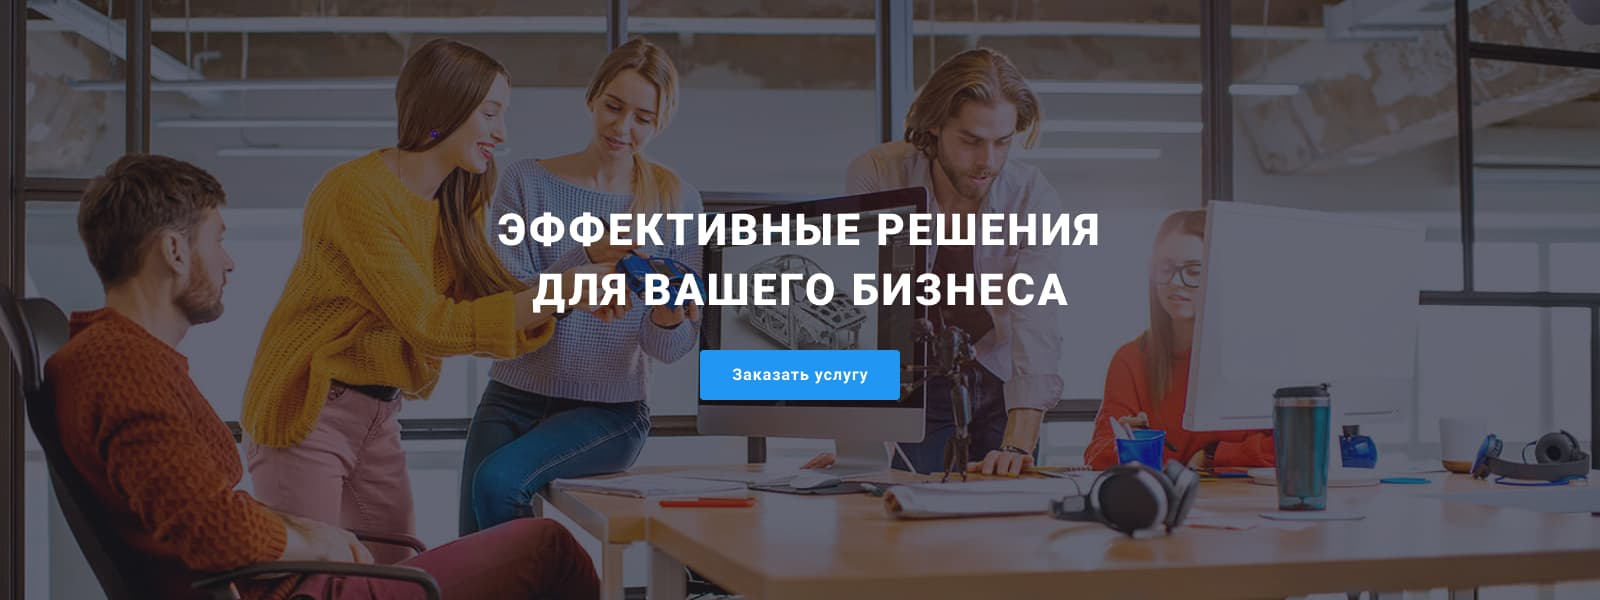
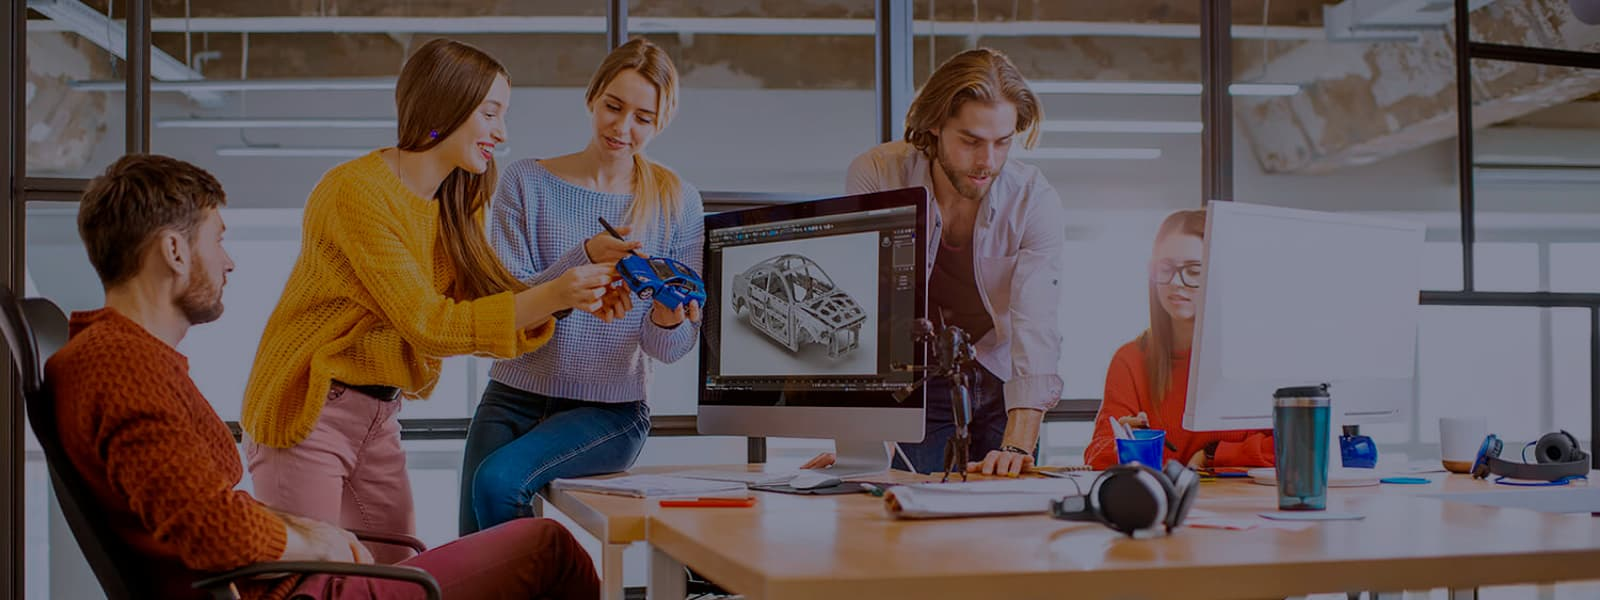
updt bck hero

diff --git a/css/styles.css b/css/styles.css
@@ -151,12 +151,18 @@ ul {
 
 /* Hero section:  part 1 - slogan and btn */
 .hero {
-  background-color: var(--accent-color-background);
   color: var(--white-color);
+  background-color: var(--accent-color-background);
+  background-image: linear-gradient(to left, rgba(47, 48, 58, 0.4), rgba(47, 48, 58, 0.4)),
+    url('../images/overlay.jpg');
+  background-repeat: no-repeat;
+  background-position: center;
+  background-size: cover;
   text-decoration: none;
   margin: 0;
   padding-top: 200px;
   padding-bottom: 280px;
+  border-radius: 4px;
 }
 .slogan {
   font-size: 44px;

diff --git a/index.html b/index.html
@@ -56,6 +56,9 @@
         <div class="container">
           <ul class="list hero-discr">
             <li class="hero-container">
+              <svg class="icons" width="270" height="170" >
+                <use href="./images/symbol-defs.svg#icon-attention"></use>
+              </svg>
               <h3 class="hero-items">Внимание к деталям</h3>
               <p class="hero-details">
                 Идейные соображения, а также начало повседневной работы по формированию позиции.
